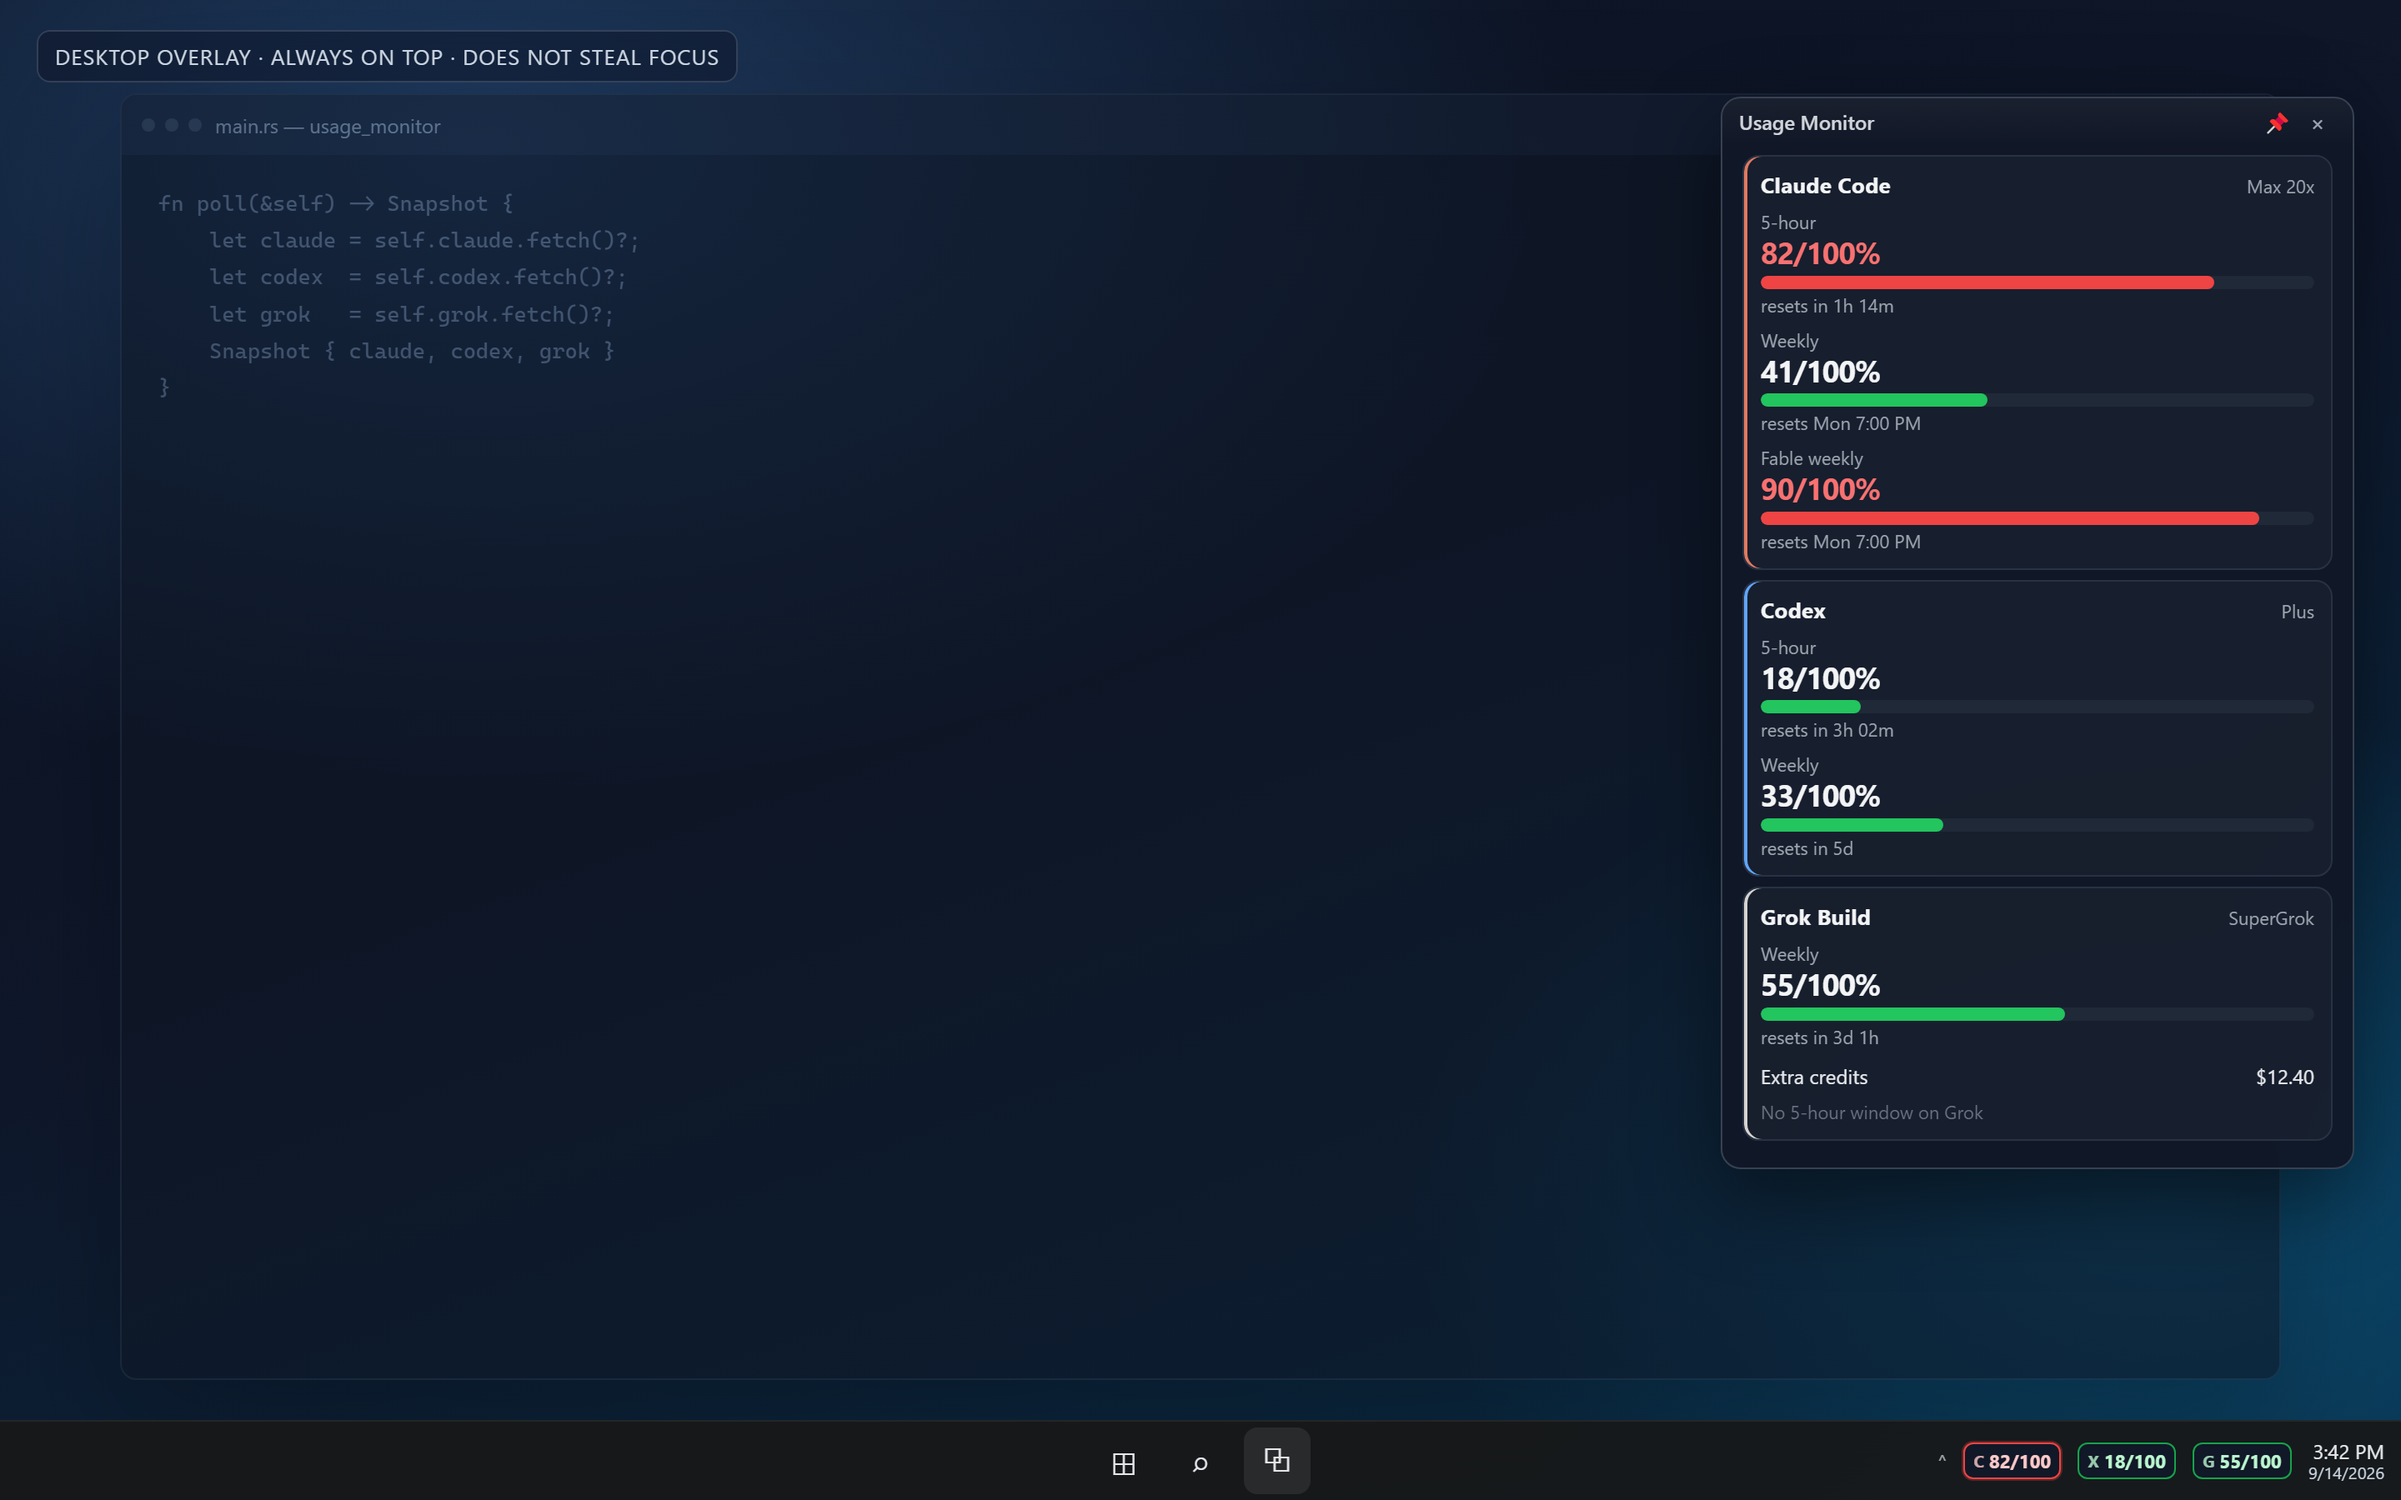
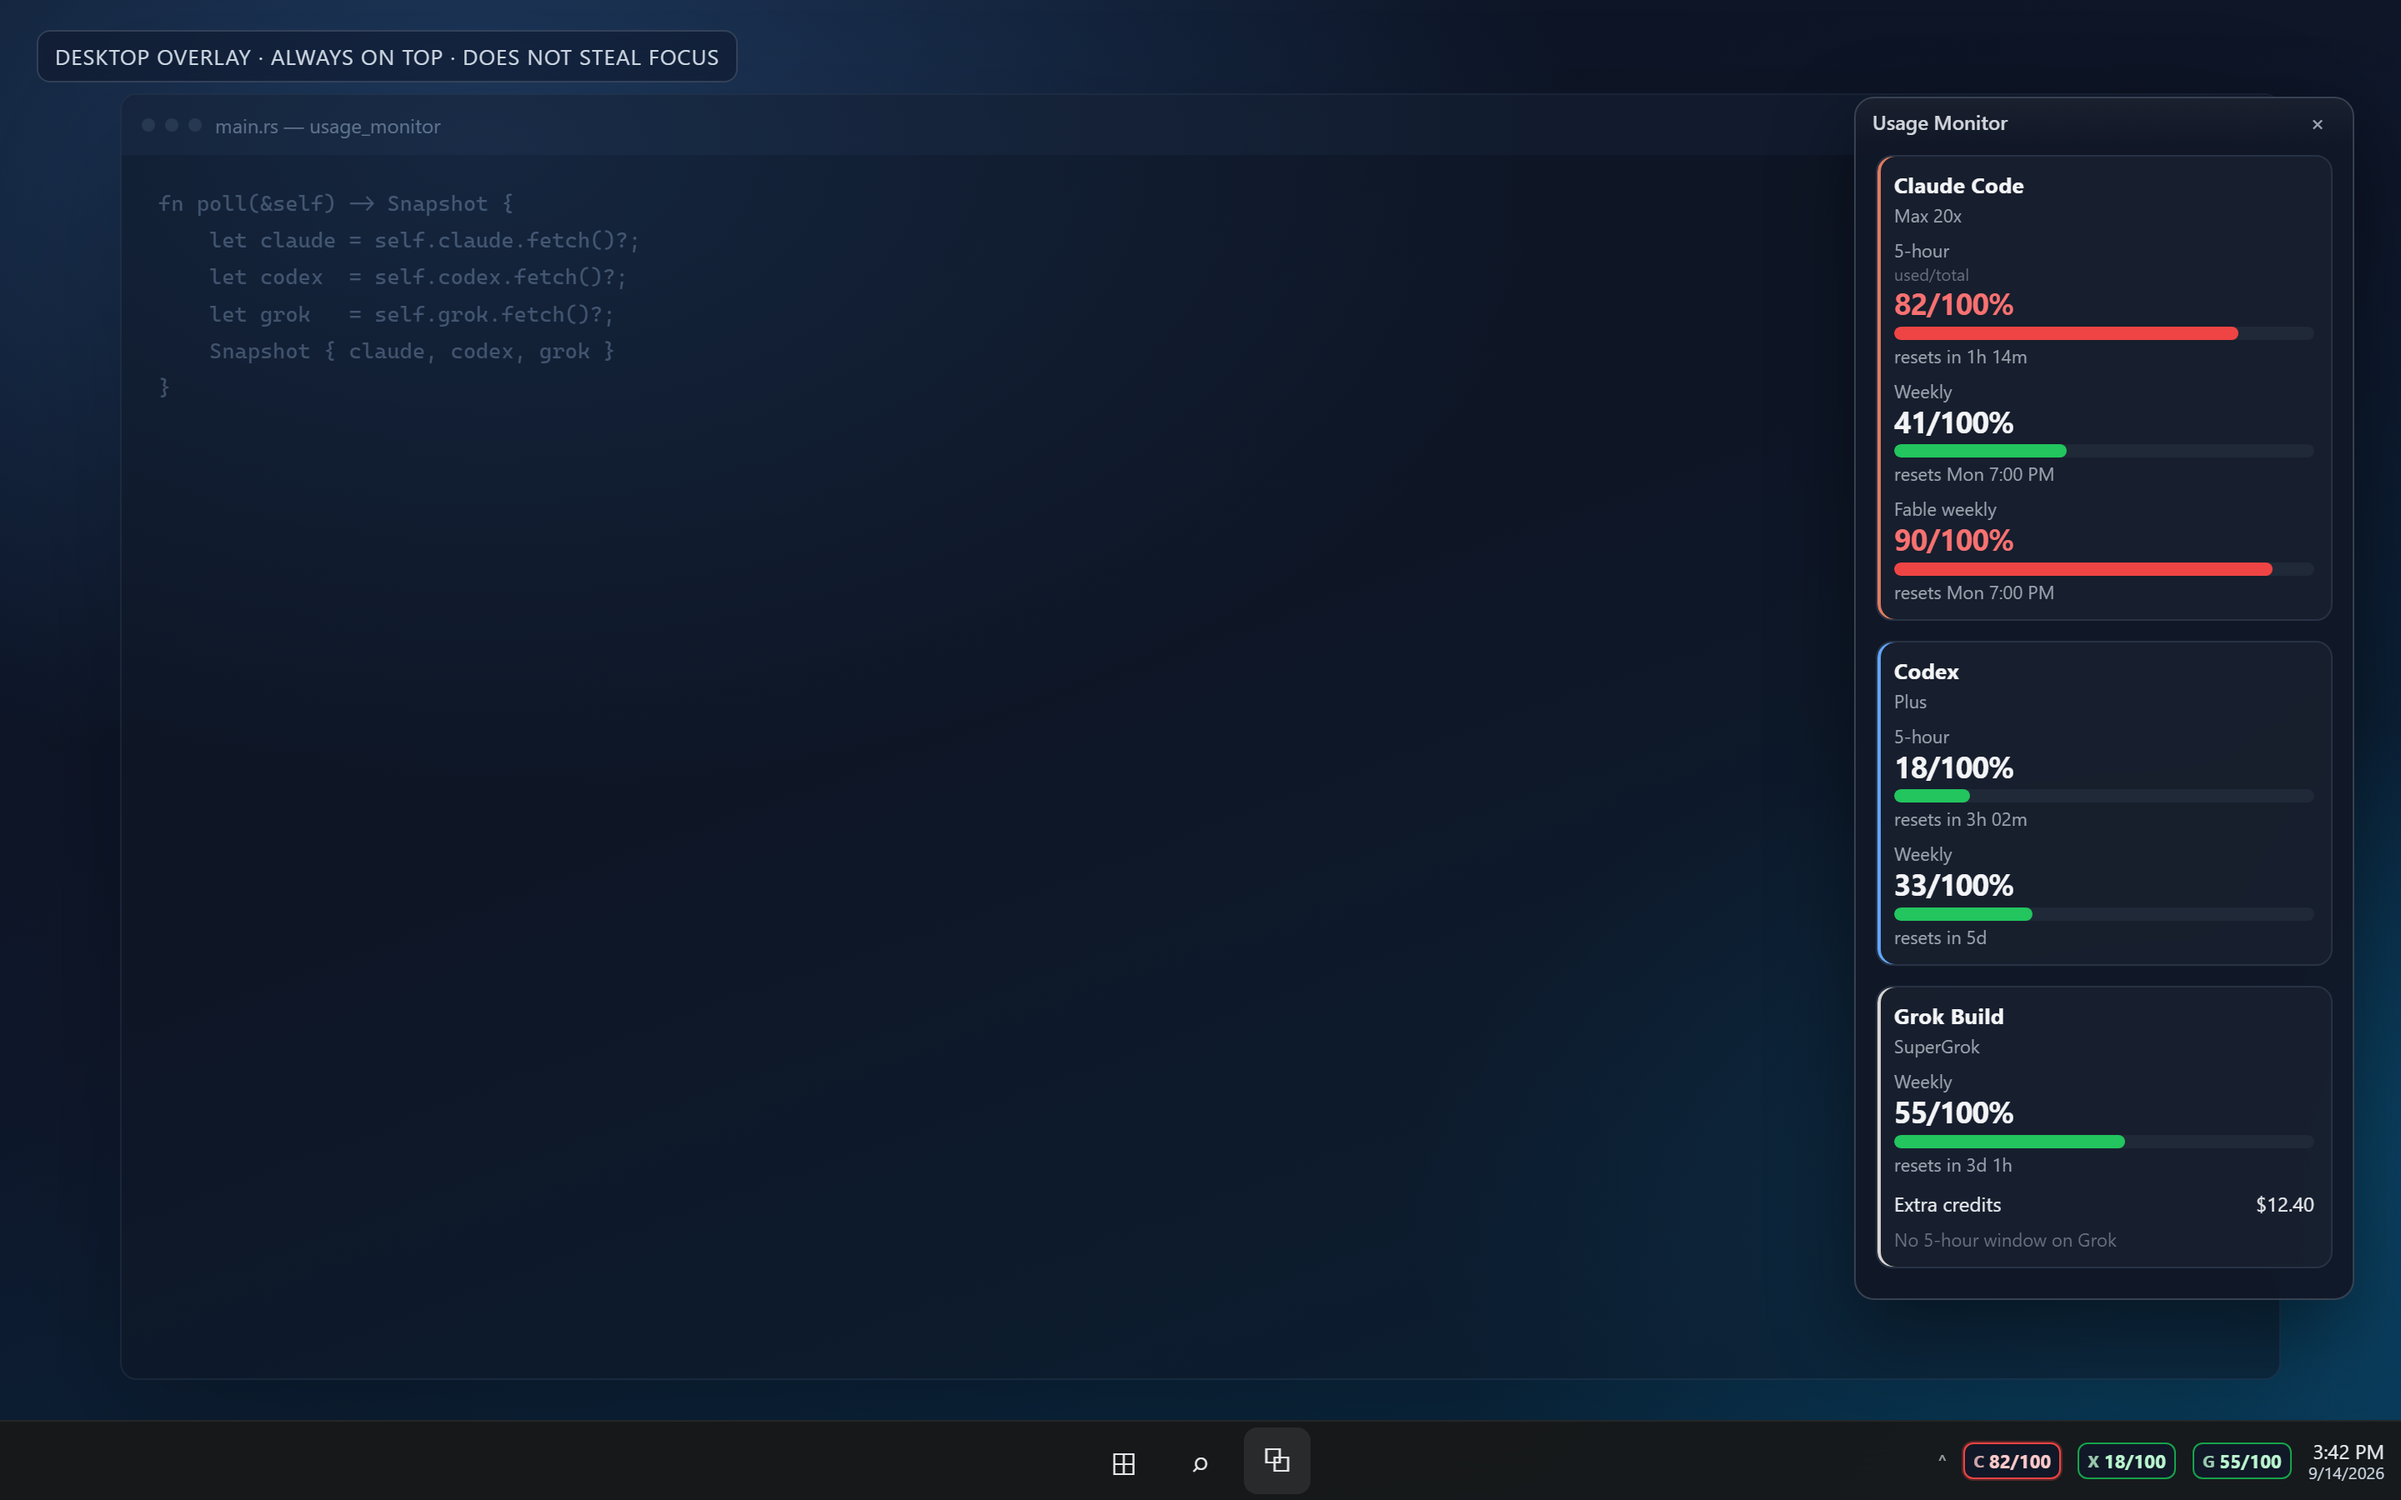
Register Start with Windows on first launch and refresh docs screenshots.

Changed region(s): [[0.7188, 0.0622, 0.9375, 0.84], [0.8438, 0.7778, 1.0, 0.8711]]

diff --git a/src/autostart.js b/src/autostart.js
@@ -1,0 +1,95 @@
+const fs = require("fs");
+const path = require("path");
+const { execFileSync } = require("child_process");
+const { app } = require("electron");
+
+function appRoot() {
+  return path.resolve(__dirname, "..");
+}
+
+function electronExe() {
+  return process.execPath;
+}
+
+function startupDir() {
+  return path.join(
+    process.env.APPDATA || "",
+    "Microsoft",
+    "Windows",
+    "Start Menu",
+    "Programs",
+    "Startup"
+  );
+}
+
+function shortcutPath() {
+  return path.join(startupDir(), "Usage Monitor.lnk");
+}
+
+function writeShortcut() {
+  const lnk = shortcutPath();
+  const exe = electronExe();
+  const root = appRoot();
+  fs.mkdirSync(startupDir(), { recursive: true });
+  const ps = [
+    "$ws = New-Object -ComObject WScript.Shell",
+    `$s = $ws.CreateShortcut(${JSON.stringify(lnk)})`,
+    `$s.TargetPath = ${JSON.stringify(exe)}`,
+    `$s.Arguments = ${JSON.stringify(`"${root}"`)}`,
+    `$s.WorkingDirectory = ${JSON.stringify(root)}`,
+    "$s.WindowStyle = 1",
+    '$s.Description = "Usage Monitor"',
+    "$s.Save()",
+  ].join("; ");
+  execFileSync("powershell.exe", ["-NoProfile", "-Command", ps], {
+    windowsHide: true,
+    timeout: 10000,
+  });
+}
+
+function removeShortcut() {
+  try {
+    if (fs.existsSync(shortcutPath())) fs.unlinkSync(shortcutPath());
+  } catch {
+    /* ignore */
+  }
+}
+
+function apply(enabled) {
+  const root = appRoot();
+  const exe = electronExe();
+  try {
+    app.setLoginItemSettings({
+      openAtLogin: !!enabled,
+      openAsHidden: false,
+      path: exe,
+      args: [root],
+    });
+  } catch (err) {
+    console.error("login item failed", err.message);
+  }
+  if (process.platform !== "win32") return enabled;
+  try {
+    if (enabled) writeShortcut();
+    else removeShortcut();
+  } catch (err) {
+    console.error("startup shortcut failed", err.message);
+  }
+  return !!enabled;
+}
+
+function isEnabled() {
+  try {
+    const st = app.getLoginItemSettings({ path: electronExe(), args: [appRoot()] });
+    if (st && st.openAtLogin) return true;
+  } catch {
+    /* ignore */
+  }
+  try {
+    return fs.existsSync(shortcutPath());
+  } catch {
+    return false;
+  }
+}
+
+module.exports = { apply, isEnabled, shortcutPath, appRoot };

diff --git a/src/main.js b/src/main.js
@@ -4,6 +4,7 @@ const config = require("./config");
 const poller = require("./poller");
 const alerts = require("./alerts");
 const taskbarLayout = require("./taskbarLayout");
+const autostart = require("./autostart");
 
 let cfg;
 let overlay;
@@ -429,9 +430,8 @@ function buildMenu() {
       type: "checkbox",
       checked: !!cfg.autostart,
       click: (item) => {
-        cfg.autostart = item.checked;
+        cfg.autostart = autostart.apply(item.checked);
         config.save(cfg);
-        app.setLoginItemSettings({ openAtLogin: !!cfg.autostart });
       },
     },
     {
@@ -670,7 +670,8 @@ if (!gotLock) {
     app.setName("Usage Monitor");
     cfg = config.ensure();
     overlayPinned = !!cfg.overlay_pinned;
-    app.setLoginItemSettings({ openAtLogin: !!cfg.autostart });
+    cfg.autostart = autostart.apply(cfg.autostart !== false);
+    config.save(cfg);
 
     createWindows();
     wireIpc();

diff --git a/README.md b/README.md
@@ -10,7 +10,7 @@ It reuses the logins those CLIs already stored on disk. No API keys. Nothing is 
 
 | Surface | What it does |
 | --- | --- |
-| **Desktop overlay** | Large glass HUD. Drag anywhere on screen; position is remembered. Pin to keep it up. Empty space clicks through. |
+| **Desktop overlay** | Large glass HUD in a single column. Drag anywhere; position is remembered. Hide minimizes to the taskbar. |
 | **Flyout** | Compact meters panel in a single column. **Open flyout** / **Hide flyout**. **Snap flyout to taskbar** / **Unsnap flyout from taskbar** parks or releases the full panel just above the taskbar. |
 | **Chips** | Small `C 82/100` strip **on** the taskbar. **Snap chips to taskbar** is this strip only. |
 | **Toast** | Silent red Windows notification the first time a bar crosses 80% used. |
@@ -46,7 +46,16 @@ The first launch:
 - Puts **Usage Monitor** on the Windows taskbar (click it to show the overlay)
 - Snaps the compact **chips** widget onto the taskbar in an empty gap (always visible unless you hide it)
 - Shows the **desktop overlay**
-- Enables **Start with Windows** (uncheck from the right-click menu if you do not want that)
+- Registers **Start with Windows** (login item + Startup folder shortcut). Uncheck **Start with Windows** in the right-click menu to turn that off.
+
+## Start with Windows
+
+After the first `npm start`, the app launches at sign-in. It registers:
+
+1. A Windows **logon item** pointing at this install’s `electron.exe` and the project folder
+2. A shortcut in `%APPDATA%\Microsoft\Windows\Start Menu\Programs\Startup\Usage Monitor.lnk`
+
+Node.js must stay on your PATH (or leave `node_modules/electron` in place). To disable, right-click the overlay or chips and uncheck **Start with Windows**.
 
 ## Use
 
@@ -56,8 +65,7 @@ The first launch:
   - Hide / show chips
   - Refresh now
   - **Refresh every** — 5, 15, 30, or 60 seconds (default **5s**)
-  - Start with Windows
-  - Pin overlay
+  - **Start with Windows** (on by default after first launch)
   - **Open flyout** / **Hide flyout**
   - **Snap flyout to taskbar** / **Unsnap flyout from taskbar**
   - **Snap chips to taskbar** / **Unsnap chips from taskbar**
@@ -85,6 +93,7 @@ Meters show **used/total %** (for example `82/100%`), not remaining. A full 5-ho
 | No chips on the taskbar | Right-click overlay → **Show chips on taskbar**. They sit in an empty gap, not over the clock. |
 | Overlay missing | Click **Usage Monitor** on the Windows taskbar, or right-click chips → **Open overlay** |
 | Claude stuck / stale | The usage API rate-limits aggressive polling. The app backs off for 15 minutes and keeps the last good numbers |
+| Does not start at logon | Run `npm start` once, leave **Start with Windows** checked. Confirm `Usage Monitor.lnk` exists in the Windows Startup folder. |
 | Quit | Right-click chips or overlay → **Quit**. Closing/hiding the overlay only minimizes it. |
 
 ## License
